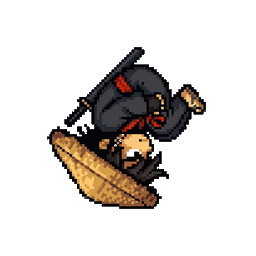
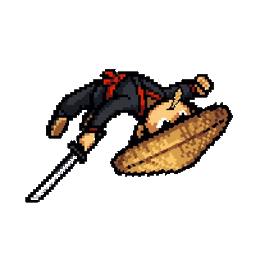
New backflip sprite: arched back, katana extended, anime-style
Regenerated backflip sprite with badass mid-air pose — arched
backwards, straight legs extended, katana held out ready to strike.
Pixel analysis: faces RIGHT → R: true.

Changed region(s): [[0.0938, 0.1875, 0.9062, 0.8438]]

diff --git a/src/game/renderer.js b/src/game/renderer.js
@@ -1483,7 +1483,7 @@ const CROPS = {
   wall_climb1:   { ...F, R: true },
   wall_climb2:   { ...F, R: true },
   wall_pushoff:  { ...F, R: false },
-  backflip:      { ...F, R: false },
+  backflip:      { ...F, R: true },
 };
 
 // Helper: draw a sprite image with crop and flip
